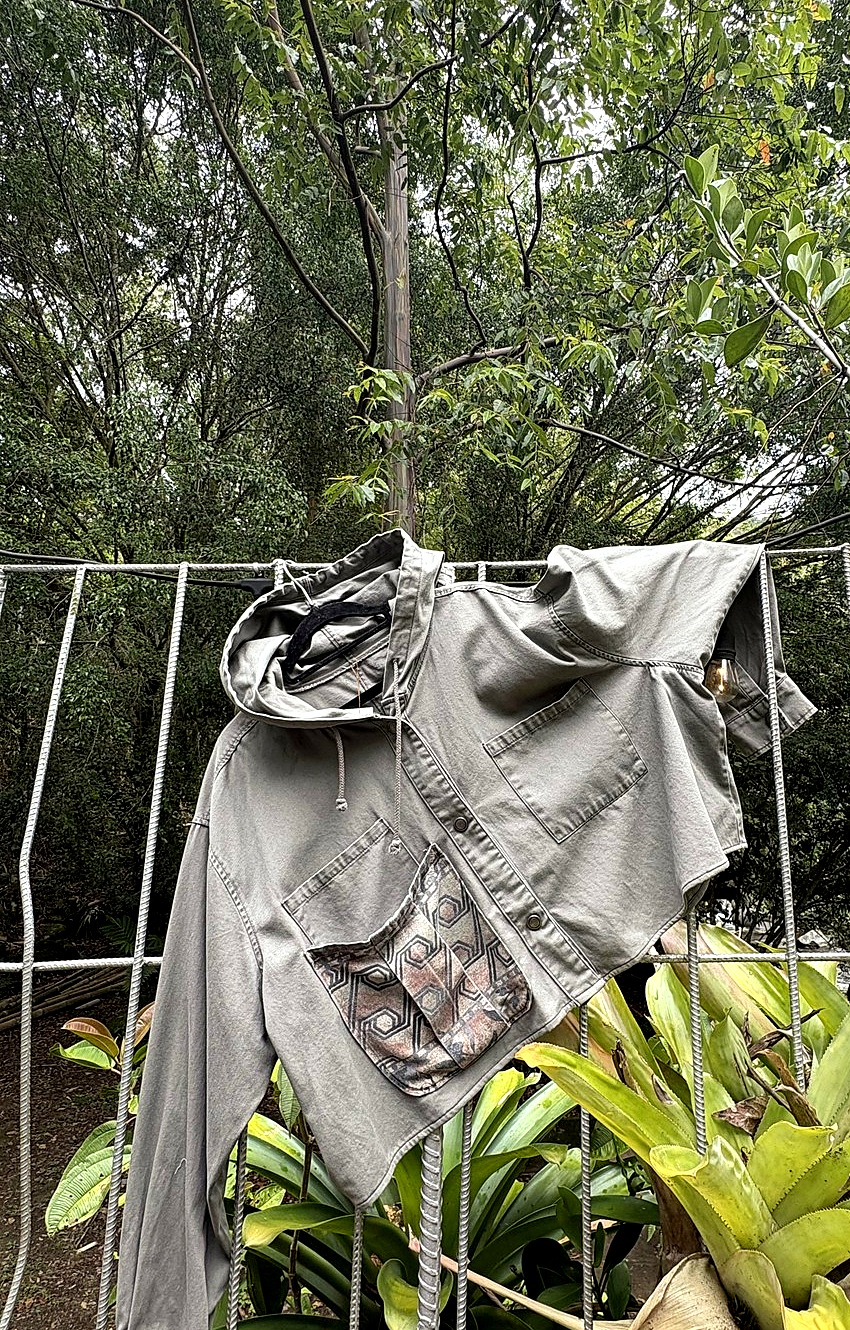
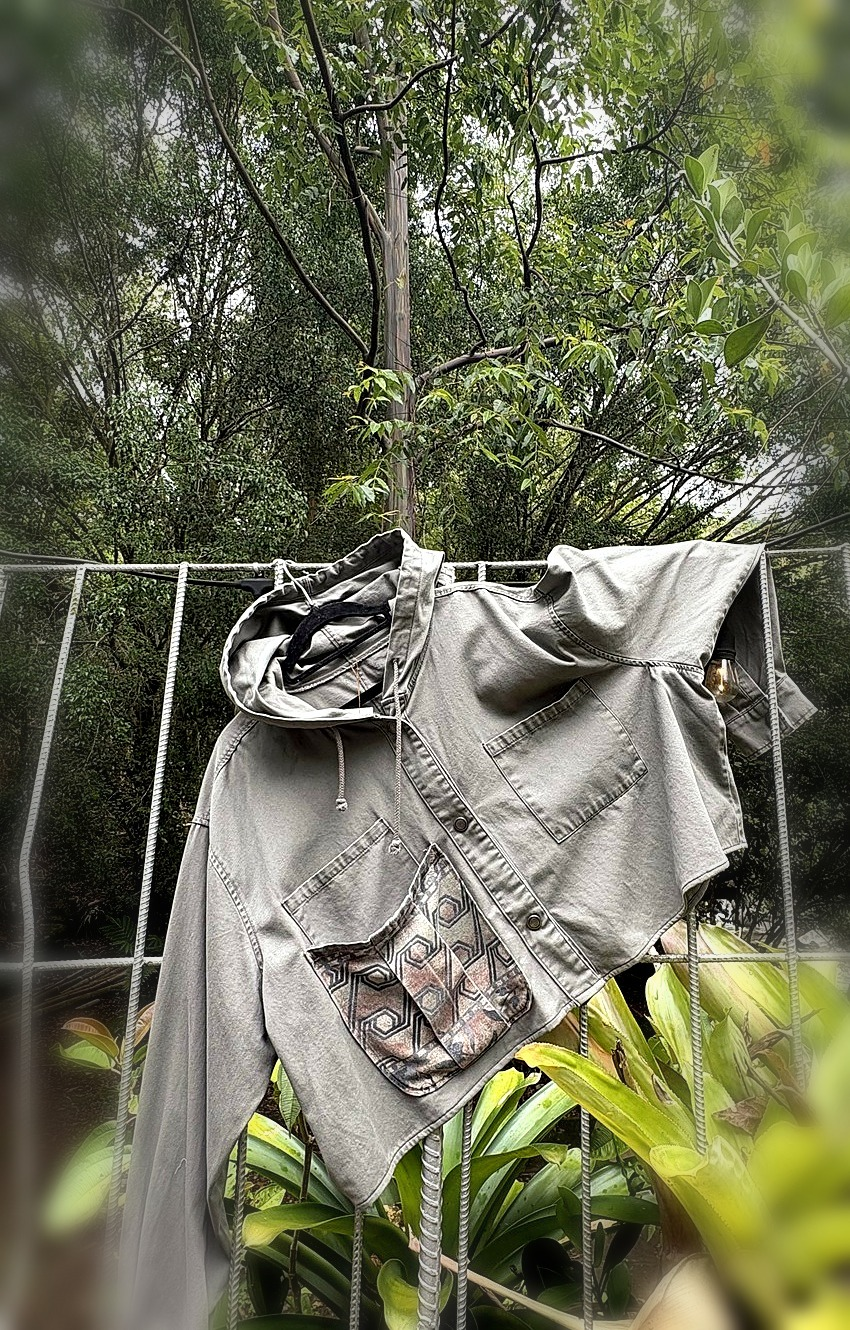
DOF blur animation + navy jacket button/seam tinting
- Gallery: blur(8px)→blur(0) on artwork image during scroll wipe (GSAP timeline)
- ArtworkDetail: keyed motion.div blur(8px)→blur(0) on each image mount
- All 12 images: radial-elliptical DOF background blur baked in
- Navy jacket (05/06): violet→brown button tint, brown→violet seam tint

Changed region(s): [[0.0, 0.0, 1.0, 1.0]]

diff --git a/app/art/[id]/ArtworkDetail.tsx b/app/art/[id]/ArtworkDetail.tsx
@@ -162,15 +162,22 @@ export function ArtworkDetail({ artwork }: { artwork: Artwork }) {
               layoutId={`artwork-image-${artwork.id}`}
               className="absolute inset-0 w-full h-full"
             >
-              {/* Artwork image — key-swapped on index change so new image mounts cleanly */}
-              <Image
-                key={activeIndex}
-                src={allImages[activeIndex]}
-                alt={artwork.title}
-                fill
-                className="object-cover transition-transform duration-[1200ms] hover:scale-[1.03]"
-                priority
-              />
+              {/* Artwork image — blur-to-sharp on each image mount, keyed so each new image unveils */}
+              <motion.div
+                key={`imgblur-${activeIndex}`}
+                className="absolute inset-0"
+                initial={{ filter: 'blur(8px)' }}
+                animate={{ filter: 'blur(0px)' }}
+                transition={{ duration: 2.0, delay: 0.3, ease: [0.22, 0.61, 0.36, 1] }}
+              >
+                <Image
+                  src={allImages[activeIndex]}
+                  alt={artwork.title}
+                  fill
+                  className="object-cover transition-transform duration-[1200ms] hover:scale-[1.03]"
+                  priority
+                />
+              </motion.div>
 
               {/* ── Benzi reveal overlays (Task 6) ──────────────────────────
                   Re-keyed on activeIndex so each new image unveils itself,

diff --git a/components/Gallery.tsx b/components/Gallery.tsx
@@ -199,6 +199,8 @@ export const Gallery = () => {
           0
         );
 
+        tl.fromTo(img, { filter: 'blur(8px)' }, { filter: 'blur(0px)', ease: 'power2.out', duration: 1 }, 0);
+
         tl.to(meta, { opacity: 1, y: 0, ease: 'power2.out', duration: 0.8 }, 0.2);
 
         const hasHover = typeof window !== 'undefined' && window.matchMedia('(hover: hover)').matches;
